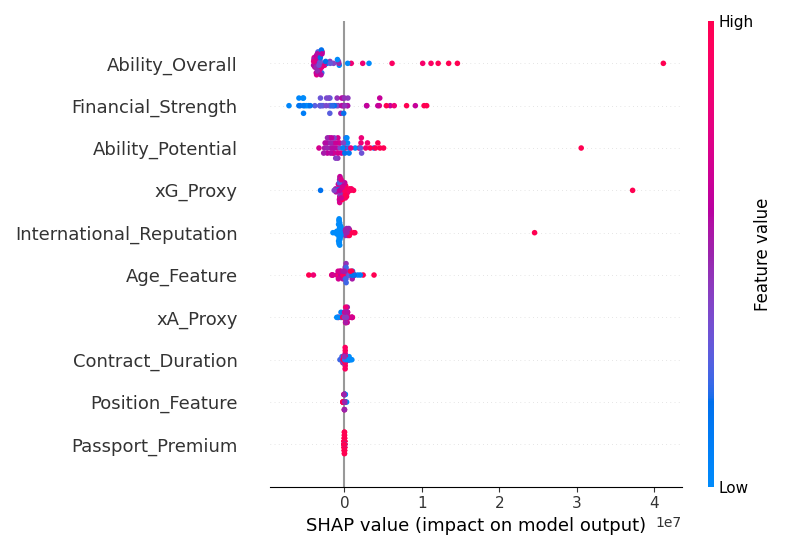
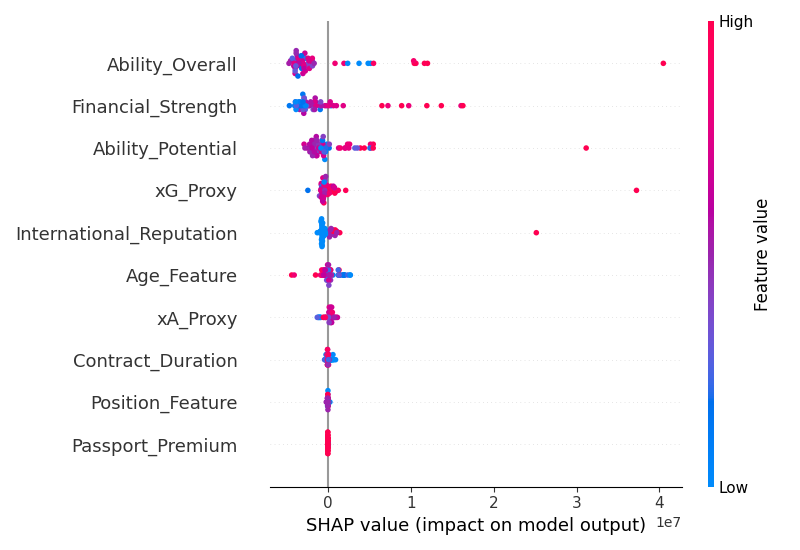
Update Financial Strength to use 3-year rolling mean

diff --git a/predict_10_factors.py b/predict_10_factors.py
@@ -49,10 +49,13 @@ def engineer_features(transfers, fifa):
     # Filter transfers to 2015-2018 (where we have FIFA data)
     transfers = transfers[transfers['Season_Year'].isin([2014, 2015, 2016, 2017, 2018])].copy()
     
-    # Financial strength of buying club: median transfer fee of the buying league in that season
-    league_strength = transfers.groupby(['League_to', 'Season_Year'])['Transfer_fee'].median().reset_index()
-    league_strength.rename(columns={'Transfer_fee': 'Buying_League_Strength'}, inplace=True)
-    transfers = transfers.merge(league_strength, on=['League_to', 'Season_Year'], how='left')
+    # Financial strength of buying club: 3-year rolling mean of the buying league's median transfer fee
+    annual_league_medians = transfers.groupby(['League_to', 'Season_Year'])['Transfer_fee'].median().reset_index()
+    annual_league_medians = annual_league_medians.sort_values(['League_to', 'Season_Year'])
+    annual_league_medians['Buying_League_Strength'] = annual_league_medians.groupby('League_to')['Transfer_fee'].transform(
+        lambda x: x.rolling(window=3, min_periods=1).mean()
+    )
+    transfers = transfers.merge(annual_league_medians[['League_to', 'Season_Year', 'Buying_League_Strength']], on=['League_to', 'Season_Year'], how='left')
     
     # Fuzzy match players (simplified for this task)
     # In a real scenario, we'd do a more robust join. 
@@ -194,7 +197,7 @@ def run_model(X, y, features, df_full):
     print("\n--- Feature Definitions ---")
     print("1. Contract_Duration: Years remaining on contract at time of transfer.")
     print("2. Age_Feature: Player age in years.")
-    print("3. Financial_Strength: Median transfer fee of the BUYING league in the transfer season.")
+    print("3. Financial_Strength: 3-year rolling mean of the median transfer fee of the BUYING league.")
     print("4. Ability_Overall: FIFA Overall rating (quantifies current technical/physical standing).")
     print("5. Ability_Potential: FIFA Potential rating (quantifies future ceiling).")
     print("6. xG_Proxy (Advanced Stat): Sum of FIFA 'Finishing' and 'Positioning' stats.")